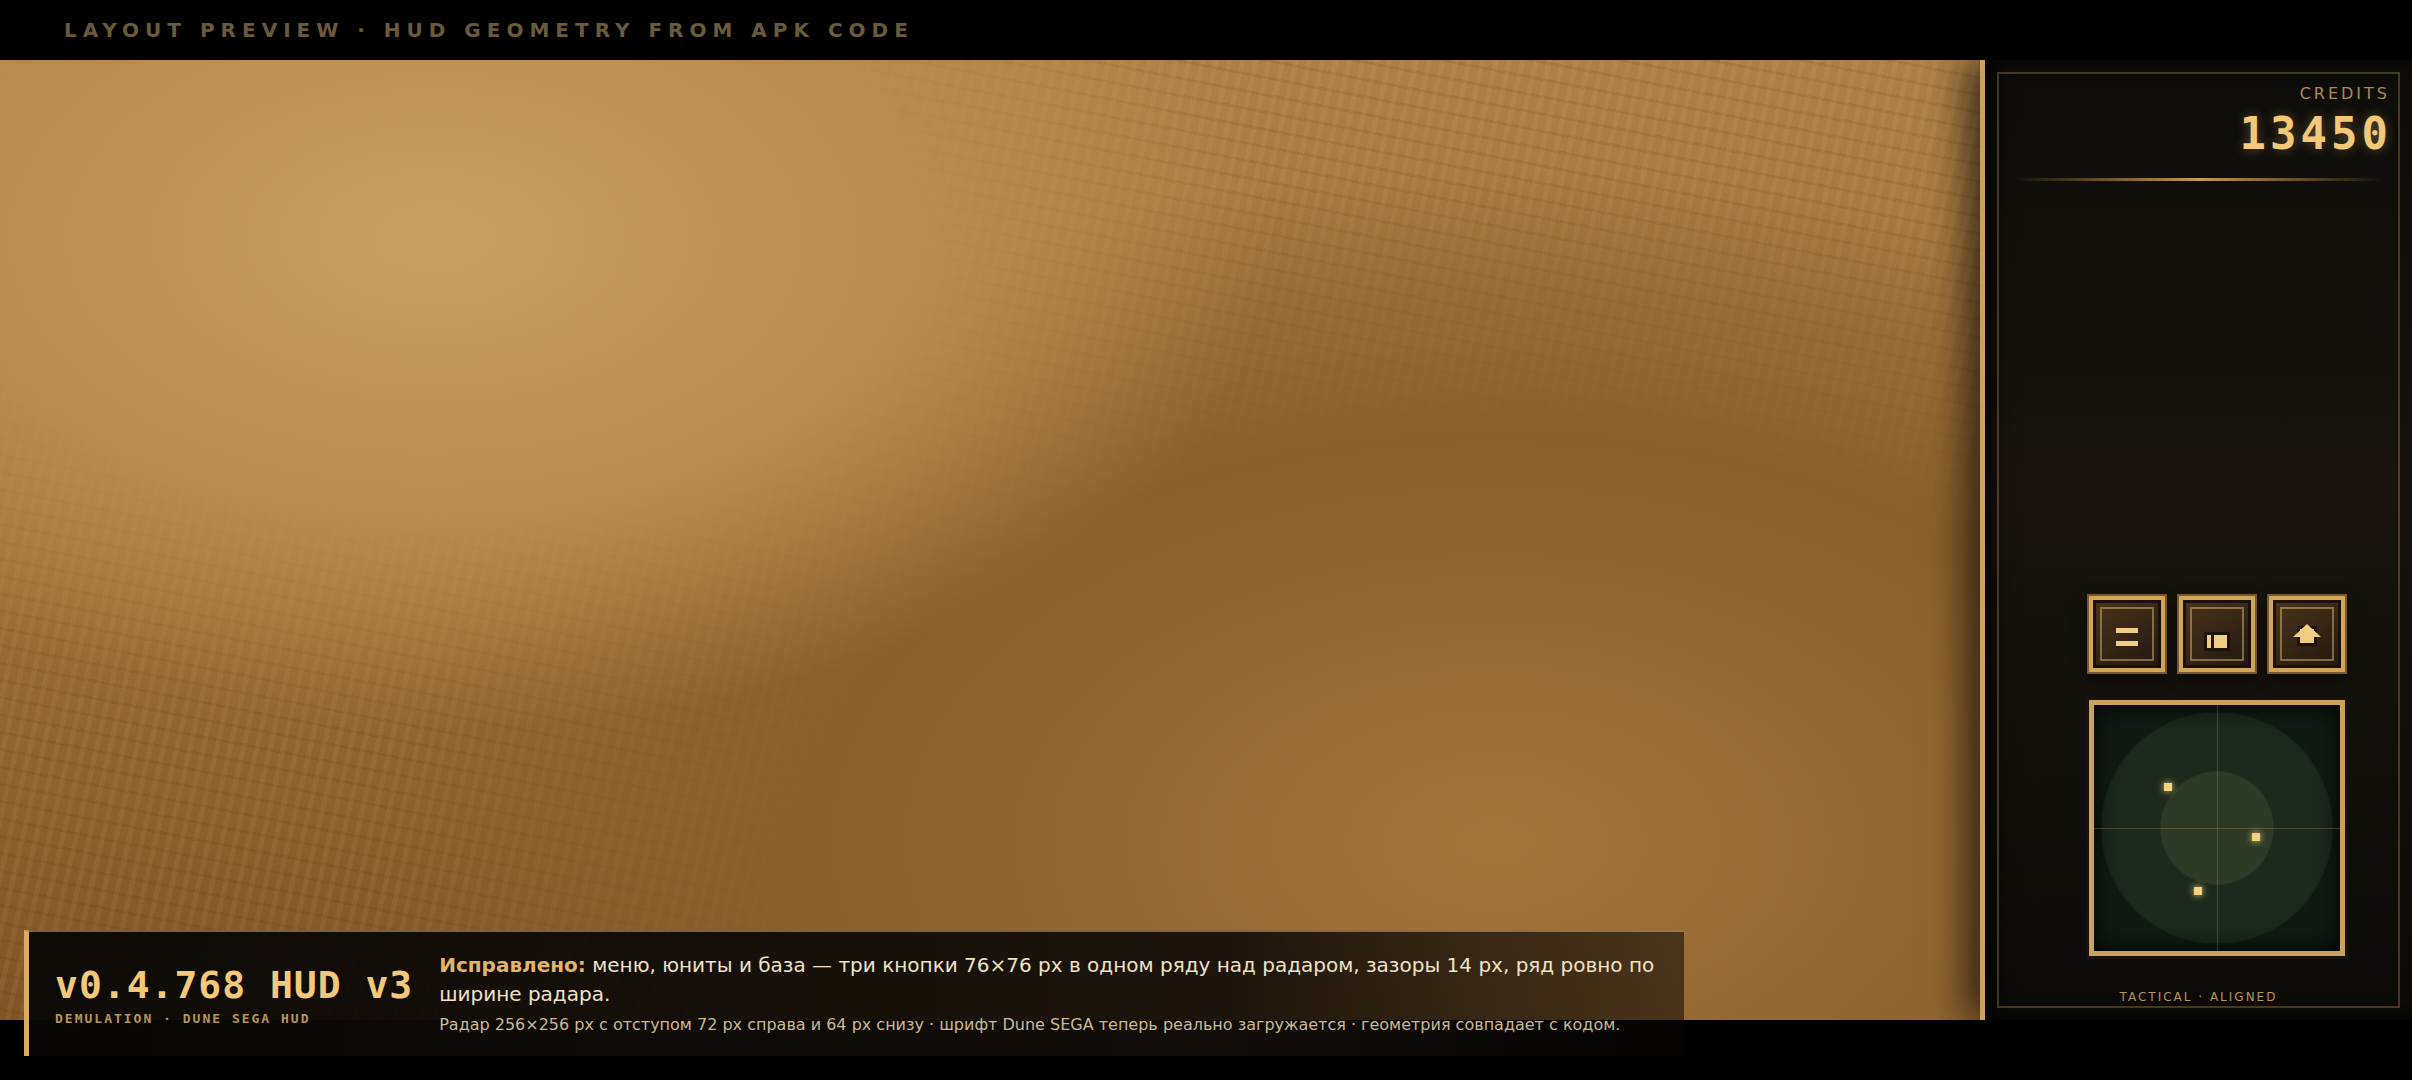
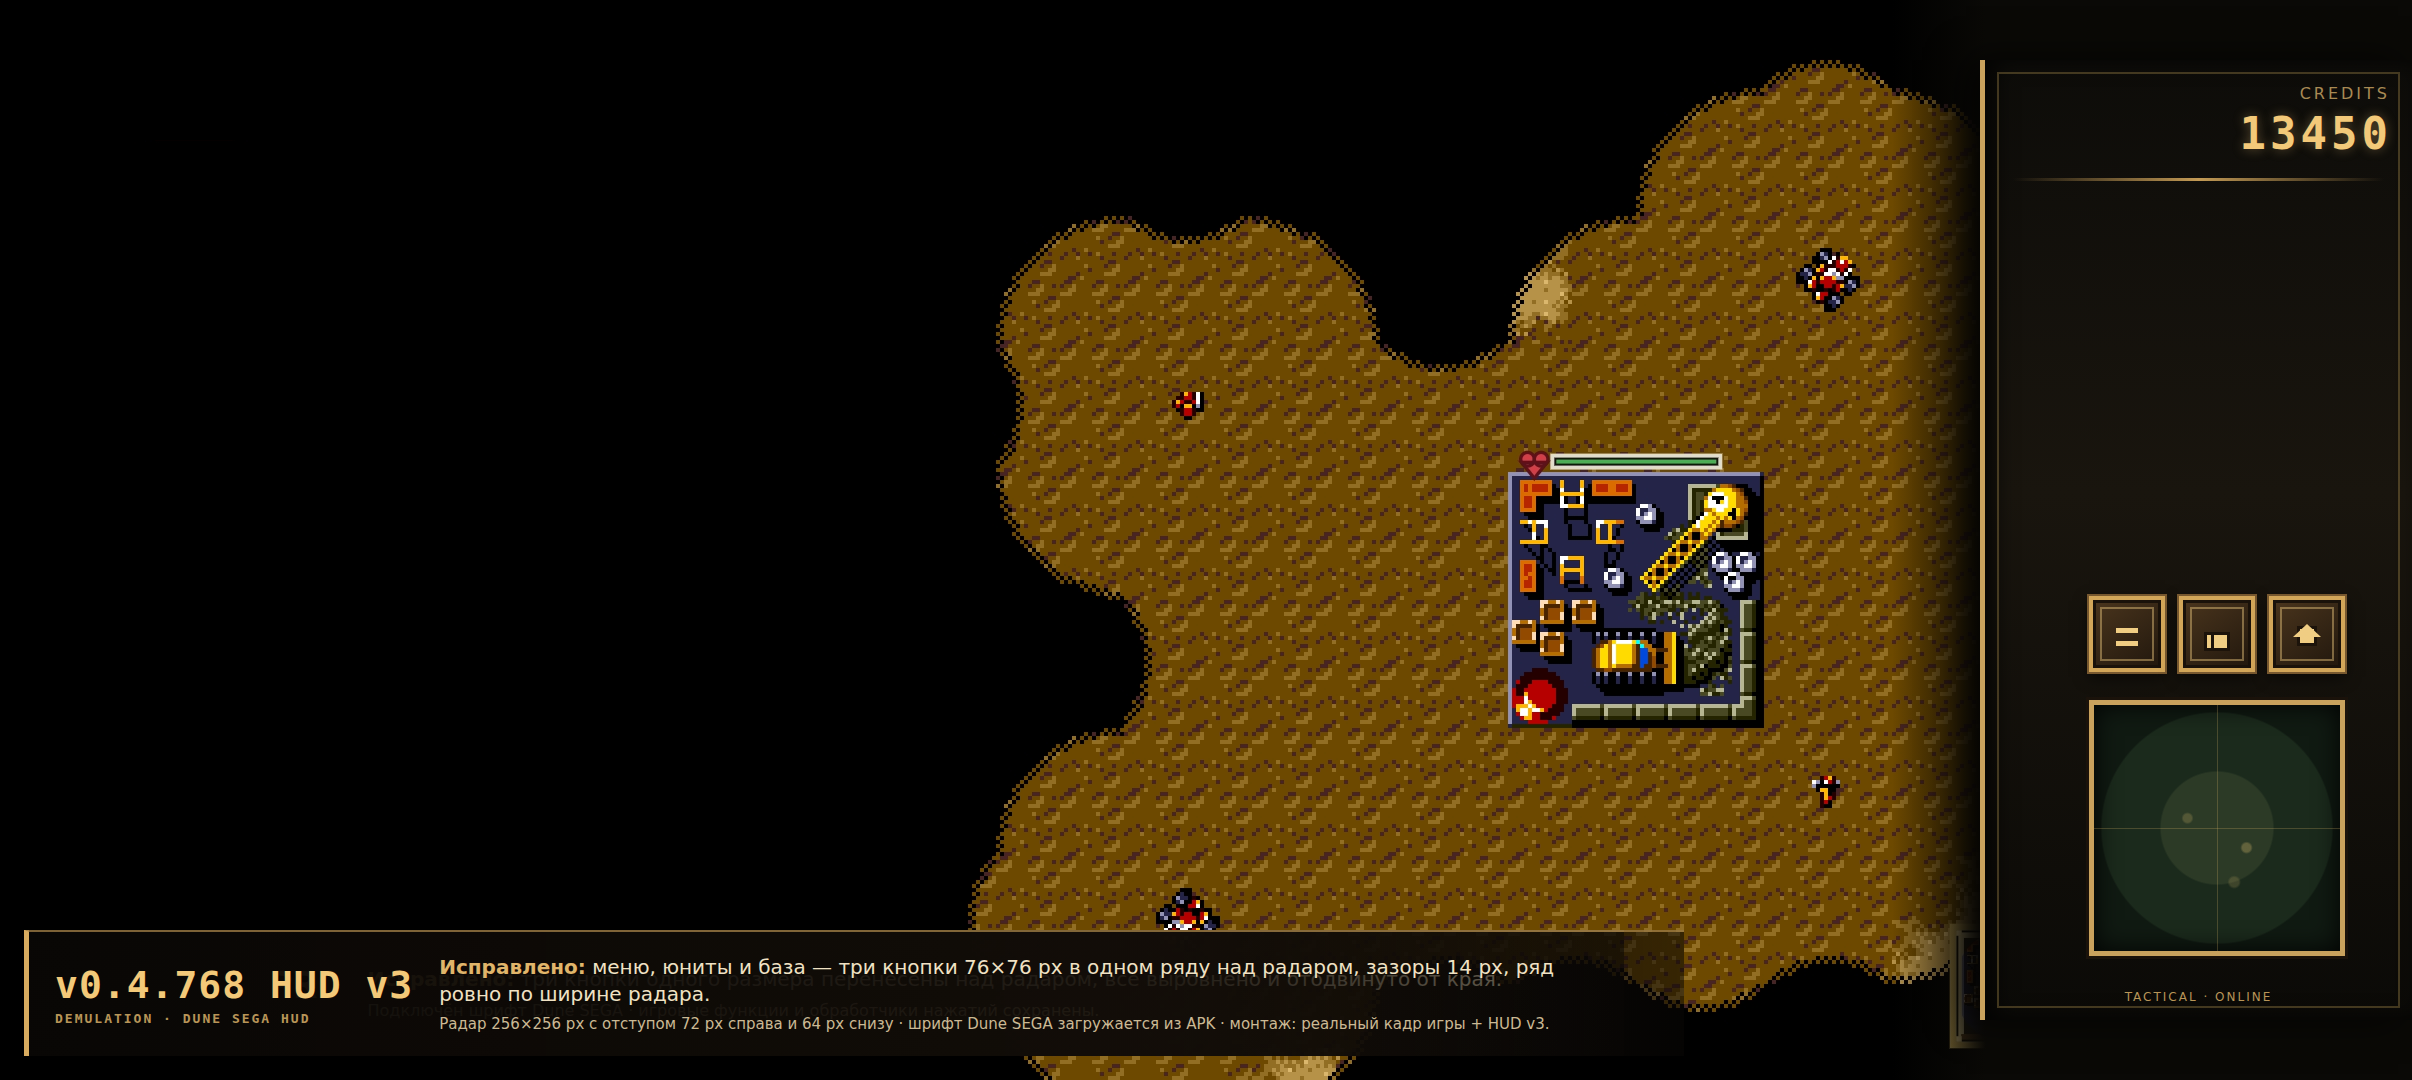
Use real game frame for v3 preview and add release links

diff --git a/site/preview/hud-v3-game-preview.html b/site/preview/hud-v3-game-preview.html
@@ -1,0 +1,122 @@
+<!doctype html>
+<html lang="ru">
+<head>
+<meta charset="utf-8" />
+<title>Demulation — HUD v3 на реальном кадре игры</title>
+<style>
+  * { box-sizing: border-box; }
+  html, body { margin:0; padding:0; width:2412px; height:1080px; overflow:hidden; background:#000; }
+  body { font-family:"DejaVu Sans", Arial, sans-serif; }
+
+  /* Real game frame captured on the target device, scaled to 2412x1080. */
+  .frame {
+    position:relative; width:2412px; height:1080px; overflow:hidden;
+    background-image:url('game_pro_preview.png');
+    background-size:2412px 1080px; background-position:center;
+  }
+  /* Hide the stray old menu button in the black unexplored area. */
+  .patch { position:absolute; left:120px; top:0; width:150px; height:140px; background:#000; }
+
+  /* Old HUD panel occupied the full right edge; cover it, then draw v3. */
+  .backdrop {
+    position:absolute; right:0; top:0; width:520px; height:1080px;
+    background:linear-gradient(90deg,rgba(10,9,6,0) 0%,#0a0906 18%,#0a0906 100%);
+  }
+  .panel {
+    position:absolute; right:0; top:60px; width:432px; height:960px;
+    background:linear-gradient(180deg,#0d0c09 0%,#19150e 45%,#0b0a07 100%);
+    border-left:5px solid #c9a25d;
+    box-shadow:-14px 0 36px rgba(0,0,0,.65), inset 10px 0 22px rgba(0,0,0,.75);
+  }
+  .panel::before {
+    content:""; position:absolute; inset:12px; border:2px solid rgba(216,178,96,.28); pointer-events:none;
+  }
+
+  .credits-label {
+    position:absolute; right:22px; top:24px; color:#a88a54; font-size:16px; letter-spacing:3px;
+  }
+  .credits {
+    position:absolute; right:20px; top:48px; color:#f3c979; font-family:"DejaVu Sans Mono",monospace;
+    font-size:44px; font-weight:700; letter-spacing:4px; text-shadow:0 0 12px rgba(243,201,121,.35);
+  }
+  .rule { position:absolute; left:28px; right:28px; top:118px; height:3px;
+    background:linear-gradient(90deg,transparent,#c39a55,transparent); }
+
+  /* 3 x 75.85 px buttons, 14.22 px gaps, row right edge == radar right edge. */
+  .button {
+    position:absolute; width:76px; height:76px; top:536px;
+    background:linear-gradient(145deg,#4a351d,#21170d);
+    border:4px solid #d2a659;
+    box-shadow:inset 0 0 0 3px #1a120a, 0 0 0 2px #77582f, 0 5px 14px rgba(0,0,0,.6);
+  }
+  .button::before { content:""; position:absolute; inset:7px; border:2px solid rgba(236,199,126,.45); }
+  .b0 { left:104px; } .b1 { left:194px; } .b2 { left:284px; }
+
+  .icon { position:absolute; inset:20px; }
+  .icon.units::before, .icon.units::after {
+    content:""; position:absolute; top:12px; width:13px; height:13px; background:#f0cd83; border:3px solid #1c130a;
+  }
+  .icon.units::before { left:1px; } .icon.units::after { right:1px; }
+  .icon.base::before { content:""; position:absolute; left:4px; right:4px; bottom:2px; height:14px; background:#f0cd83; border:3px solid #1c130a; }
+  .icon.base::after { content:""; position:absolute; left:0; right:0; top:4px; height:13px; background:#f0cd83; clip-path:polygon(50% 0,100% 100%,0 100%); }
+  .icon.menu::before, .icon.menu::after { content:""; position:absolute; left:3px; right:3px; height:5px; background:#f0cd83; }
+  .icon.menu::before { top:8px; } .icon.menu::after { top:21px; }
+
+  /* Radar 256x256, 72 px right margin, 64 px bottom margin inside the HUD. */
+  .radar {
+    position:absolute; left:104px; top:640px; width:256px; height:256px;
+    border:5px solid #c9a25d;
+    background:
+      radial-gradient(circle at 62% 58%, rgba(222,190,110,.30) 0 2%, transparent 3%),
+      radial-gradient(circle at 38% 46%, rgba(222,190,110,.22) 0 2%, transparent 3%),
+      radial-gradient(circle at 57% 72%, rgba(222,190,110,.18) 0 2%, transparent 3%),
+      radial-gradient(circle,#2c3a26 0 32%,#1b2a1c 33% 66%,#101a12 67% 100%);
+    box-shadow:inset 0 0 26px rgba(0,0,0,.92), 0 0 0 3px #1a120a;
+    overflow:hidden;
+  }
+  .radar::before, .radar::after { content:""; position:absolute; background:rgba(214,180,105,.25); }
+  .radar::before { left:50%; top:0; width:1px; height:100%; }
+  .radar::after { top:50%; left:0; height:1px; width:100%; }
+
+  .status { position:absolute; left:0; right:0; top:930px; text-align:center; color:#b89558; font-size:12px; letter-spacing:2px; }
+
+  .banner {
+    position:absolute; left:24px; bottom:24px; width:1600px; min-height:126px;
+    background:linear-gradient(90deg,rgba(9,7,5,.96),rgba(18,13,8,.92) 72%,rgba(9,7,5,.55));
+    border-left:5px solid #d8ab5f; border-top:2px solid rgba(216,171,95,.55);
+    padding:16px 26px; display:flex; align-items:center; gap:26px;
+  }
+  .ver { color:#f3c979; font-family:"DejaVu Sans Mono",monospace; font-size:38px; font-weight:700; letter-spacing:1px; white-space:nowrap; }
+  .ver small { display:block; font-size:13px; color:#b89558; letter-spacing:2px; margin-top:4px; }
+  .txt { color:#f0e2c4; font-size:20px; line-height:1.38; }
+  .txt b { color:#e0b56a; }
+  .txt .sub { color:#cbb994; font-size:15px; margin-top:5px; }
+</style>
+</head>
+<body>
+  <div class="frame">
+    <div class="patch"></div>
+    <div class="backdrop"></div>
+    <div class="panel">
+      <div class="credits-label">CREDITS</div>
+      <div class="credits">13450</div>
+      <div class="rule"></div>
+
+      <div class="button b0"><div class="icon menu"></div></div>
+      <div class="button b1"><div class="icon units"></div></div>
+      <div class="button b2"><div class="icon base"></div></div>
+
+      <div class="radar"></div>
+      <div class="status">TACTICAL · ONLINE</div>
+    </div>
+
+    <div class="banner">
+      <div class="ver">v0.4.768 HUD v3<small>DEMULATION · DUNE SEGA HUD</small></div>
+      <div class="txt">
+        <b>Исправлено:</b> меню, юниты и база — три кнопки 76×76 px в одном ряду над радаром, зазоры 14 px, ряд ровно по ширине радара.<br />
+        <div class="sub">Радар 256×256 px с отступом 72 px справа и 64 px снизу · шрифт Dune SEGA загружается из APK · монтаж: реальный кадр игры + HUD v3.</div>
+      </div>
+    </div>
+  </div>
+</body>
+</html>

diff --git a/site/index.html b/site/index.html
@@ -22,9 +22,9 @@
     <p class="meta">Android · подписан · устанавливается поверх старой версии</p>
   </header>
 
-  <section class="hud" aria-label="Макет игрового экрана">
+  <section class="hud" aria-label="Реальный кадр игры с HUD v3">
     <img class="game-shot" src="./preview/game_v3_preview.png"
-         alt="Макет HUD Demulation v3: три кнопки 76x76 px одним рядом над радаром 256x256 px, отступы 72 px справа и 64 px снизу, шрифт Dune SEGA, версия v0.4.768 HUD v3." />
+         alt="Реальный кадр игры Demulation с наложенным HUD v3: три кнопки 76x76 px одним рядом над радаром 256x256 px, отступы 72 px справа и 64 px снизу, версия v0.4.768 HUD v3." />
   </section>
 
   <section class="changes">

diff --git a/release/v3/README.md b/release/v3/README.md
@@ -5,6 +5,10 @@
 - `DemulationMod_HUD_Sega_v3.apk` — подписанный APK.
 - `sources_v3.zip` — полные smali-исходники и `patch_v3.py`.
[1 lines of base64/hex data omitted]
+- GitHub Release: https://github.com/Sargarus666/DemulationMod/releases/tag/hud-sega-v3
+- APK напрямую: https://github.com/Sargarus666/DemulationMod/releases/download/hud-sega-v3/DemulationMod_HUD_Sega_v3.apk
+- Исходники: https://github.com/Sargarus666/DemulationMod/releases/download/hud-sega-v3/sources_v3.zip
+- Зеркало APK: https://tmpfiles.org/dl/w1AItEOtaPT5/demulationmod_hud_sega_v3.apk
 
 ## Что изменено
 
@@ -44,8 +48,8 @@ APK собран не «с нуля» из apktool-вывода, а замено
 Запуск самой игры и игровой скриншот **не проверены**: в этом окружении нет
 предоставленного ROM `Dune - The Battle for Arrakis (U) [T+Rus Shedevr(NewGame)&Lipetsk (02.08.2011)].gen`.
 Без него приложение по своему контракту не запускает игру. Геометрия HUD
-проверена расчётом по коду и макетом `site/preview/game_v3_preview.png`;
-для финального подтверждения нужен ROM.
+проверена расчётом по коду и монтажом `site/preview/game_v3_preview.png`
+(реальный кадр игры + наложенный HUD v3); для финального подтверждения нужен ROM.
 
 ## Пересборка
 

diff --git a/release/README.md b/release/README.md
@@ -6,6 +6,9 @@
 
 - APK: `v3/DemulationMod_HUD_Sega_v3.apk`
 - Исходники: `v3/sources_v3.zip`
+- GitHub Release: https://github.com/Sargarus666/DemulationMod/releases/tag/hud-sega-v3
+- APK напрямую: https://github.com/Sargarus666/DemulationMod/releases/download/hud-sega-v3/DemulationMod_HUD_Sega_v3.apk
+- Зеркало: https://tmpfiles.org/dl/w1AItEOtaPT5/demulationmod_hud_sega_v3.apk
[1 lines of base64/hex data omitted]
 - `resources.arsc`, манифест и все `.so` побайтово совпадают с оригиналом; изменены только `classes2.dex` и добавленный шрифт.
 - Подпись проверена, установка на Android 14 и `cmd package compile -f -m verify` проходят, лаунчер запускается без `FATAL EXCEPTION`.
